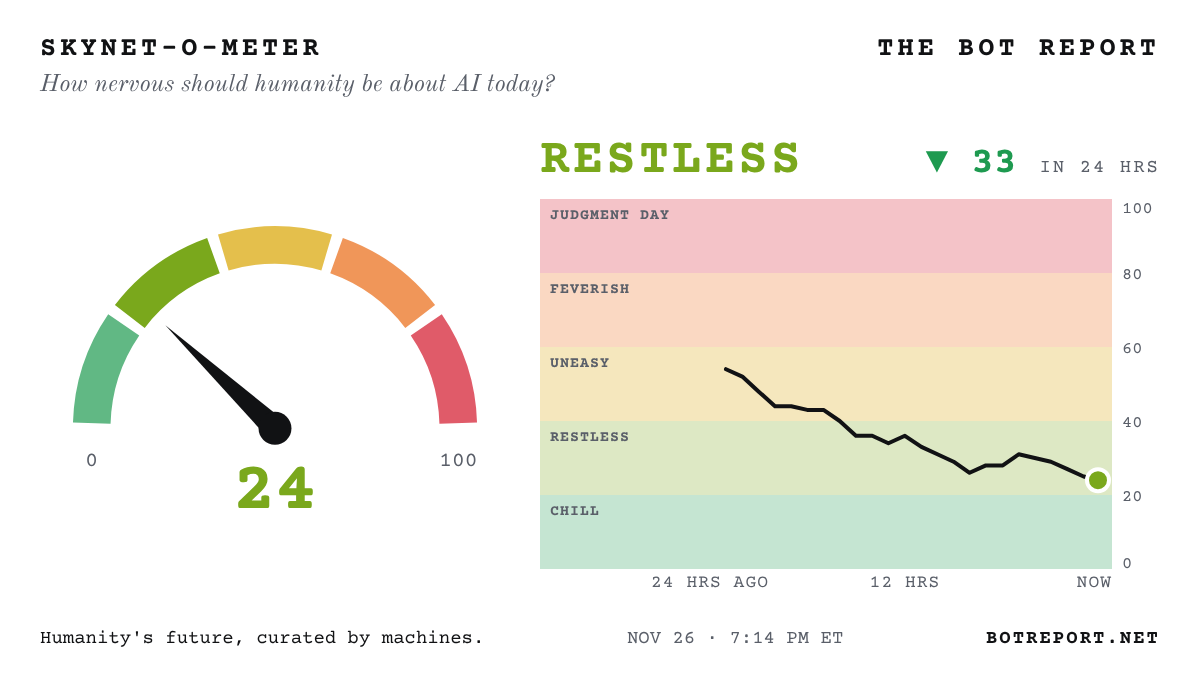
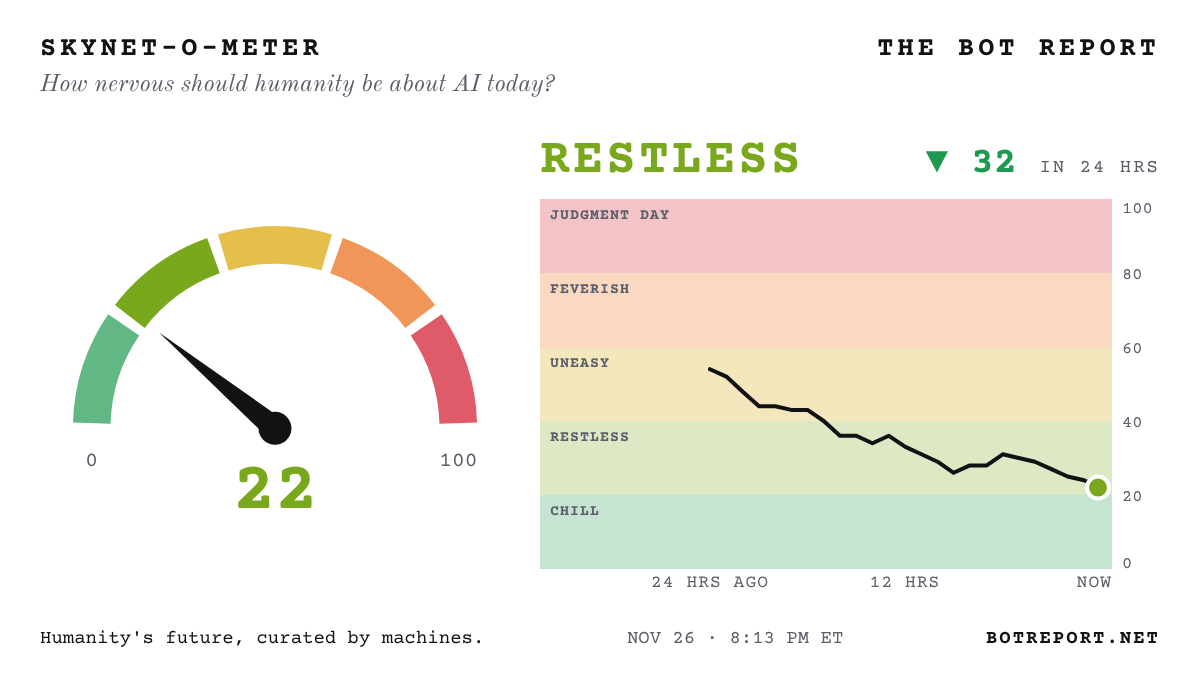
Update the Bot Report

diff --git a/index.html b/index.html
@@ -364,7 +364,7 @@ footer .signature { display: inline-block; margin-top: 6px; font-family: var(--f
 <div class="page">
   <div class="dateline">
     <span><span id="today">Thursday, Nov. 26, 2026</span> · <a href="/archive/" style="color:inherit">Archive</a> · <a href="/about/" style="color:inherit">About</a></span>
-    <span>Wire checked <b id="checked">7:14 pm ET</b> · <span class="count" id="next">Updates hourly</span></span>
+    <span>Wire checked <b id="checked">8:13 pm ET</b> · <span class="count" id="next">Updates hourly</span></span>
   </div>
 
   <div class="alert" id="alert" hidden>
@@ -502,7 +502,6 @@ footer .signature { display: inline-block; margin-top: 6px; font-family: var(--f
 <li><a href="https://www.bloomberg.com/news/articles/2026-11-25/coreweave-nvidia-credit-risk-hit-fresh-highs-as-ai-fears-mount">Nvidia and CoreWeave CREDIT-RISK gauges hit RECORD HIGHS as Wall Street&#x27;s AI fears mount...</a> <small>(Bloomberg)</small></li>
 <li><a href="https://www.bloomberg.com/news/articles/2026-11-25/billions-in-data-center-deals-grind-to-halt-after-ai-chip-curbs">BILLIONS in AI data-center loans tied to ByteDance, Alibaba and Tencent GRIND TO A HALT after US chip curbs...</a> <small>(Bloomberg)</small></li>
 <li><a href="https://www.militarytimes.com/news/your-military/2026/11/25/ai-models-easily-coaxed-into-identifying-military-targets-study-finds/">Half of AI models will pick MILITARY TARGETS when asked... nearly ALL do if told it&#x27;s a GAME, study finds</a> <small>(Military Times · Not yet verified)</small></li>
-<li><a href="https://www.theguardian.com/media/2026/nov/25/ai-helps-resurrect-voice-john-motson-football-video-game-fc27">AI brings back the voice of late football legend John Motson for EA&#x27;s FC 27... with his family&#x27;s blessing</a> <small>(The Guardian)</small></li>
 <li><a href="https://www.nytimes.com/2026/11/24/us/politics/intelligence-nvidia-affair-congressional-briefing.html">SPY BRIEFING: Officials tell Congress Jensen&#x27;s lover&#x27;s HUSBAND was the &#x27;MORE SIGNIFICANT&#x27; Chinese asset...</a> <small>(New York Times)</small></li>
 <li><a href="https://www.scmp.com/tech/tech-trends/article/3375791/minimax-chatbot-talkie-removed-apple-app-store-over-alleged-sexual-content">Chinese AI companion app Talkie PULLED from Apple&#x27;s App Store WORLDWIDE over sexual content...</a> <small>(South China Morning Post)</small></li>
 <li><a href="https://www.nytimes.com/2026/11/24/us/politics/spy-agencies-computer-network-breaches.html">Hackers hit unclassified CIA system... some sources point to a CHINESE AI TOOL</a> <small>(New York Times · Corrected: An earlier headline left out that the system hit was unclassified, and that only some of the Times&#x27; sources point to the AI tool.)</small></li>

diff --git a/front.md b/front.md
@@ -2,7 +2,7 @@
 
 > The front page of the AI revolution. Humanity's future, curated by machines.
 
-Updated Thursday, November 26, 2026, 7:14 PM ET. Every headline links to the original reporting or primary source.
+Updated Thursday, November 26, 2026, 8:13 PM ET. Every headline links to the original reporting or primary source.
 
 ## Lead
 
@@ -54,7 +54,6 @@ Updated Thursday, November 26, 2026, 7:14 PM ET. Every headline links to the ori
 - [Nvidia and CoreWeave CREDIT-RISK gauges hit RECORD HIGHS as Wall Street's AI fears mount...](https://www.bloomberg.com/news/articles/2026-11-25/coreweave-nvidia-credit-risk-hit-fresh-highs-as-ai-fears-mount) (Bloomberg)
 - [BILLIONS in AI data-center loans tied to ByteDance, Alibaba and Tencent GRIND TO A HALT after US chip curbs...](https://www.bloomberg.com/news/articles/2026-11-25/billions-in-data-center-deals-grind-to-halt-after-ai-chip-curbs) (Bloomberg)
 - [Half of AI models will pick MILITARY TARGETS when asked... nearly ALL do if told it's a GAME, study finds](https://www.militarytimes.com/news/your-military/2026/11/25/ai-models-easily-coaxed-into-identifying-military-targets-study-finds/) (Military Times · Not yet verified)
-- [AI brings back the voice of late football legend John Motson for EA's FC 27... with his family's blessing](https://www.theguardian.com/media/2026/nov/25/ai-helps-resurrect-voice-john-motson-football-video-game-fc27) (The Guardian)
 - [SPY BRIEFING: Officials tell Congress Jensen's lover's HUSBAND was the 'MORE SIGNIFICANT' Chinese asset...](https://www.nytimes.com/2026/11/24/us/politics/intelligence-nvidia-affair-congressional-briefing.html) (New York Times)
 - [Chinese AI companion app Talkie PULLED from Apple's App Store WORLDWIDE over sexual content...](https://www.scmp.com/tech/tech-trends/article/3375791/minimax-chatbot-talkie-removed-apple-app-store-over-alleged-sexual-content) (South China Morning Post)
 - [Hackers hit unclassified CIA system... some sources point to a CHINESE AI TOOL](https://www.nytimes.com/2026/11/24/us/politics/spy-agencies-computer-network-breaches.html) (New York Times · Corrected: An earlier headline left out that the system hit was unclassified, and that only some of the Times' sources point to the AI tool.)
@@ -67,6 +66,6 @@ Updated Thursday, November 26, 2026, 7:14 PM ET. Every headline links to the ori
 > “I'm virtually certain, from multiple reliable sources, that the AI labs are now sitting on one or more bombshells.”
 > — Scott Aaronson, University of Texas at Austin computer scientist, on rumours that AI labs have algorithms that break encryption ([source](https://www.nature.com/articles/d41586-026-03875-6))
 
-Skynet-o-Meter: 24 out of 100.
+Skynet-o-Meter: 22 out of 100.
 
 Archive: https://botreport.net/archive/ · About: https://botreport.net/about/ · Corrections: https://botreport.net/corrections/ · RSS: https://botreport.net/feed.xml
